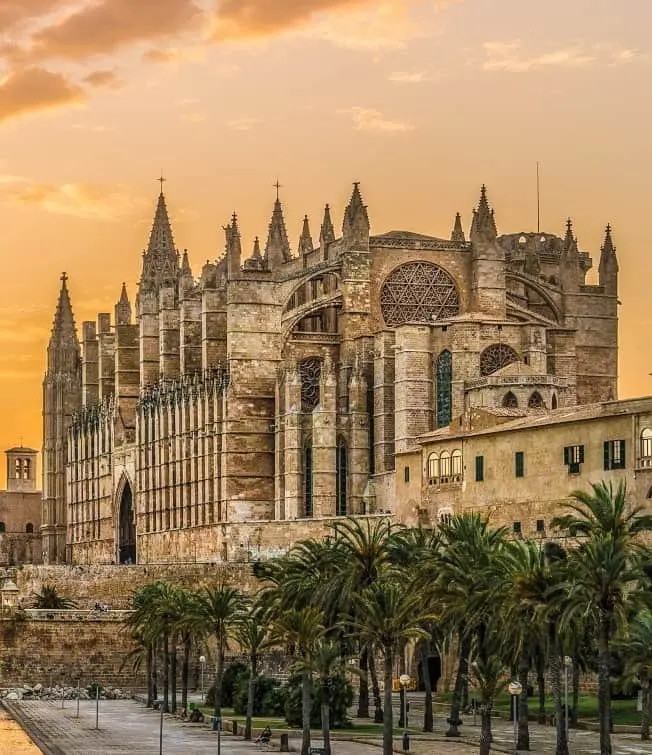
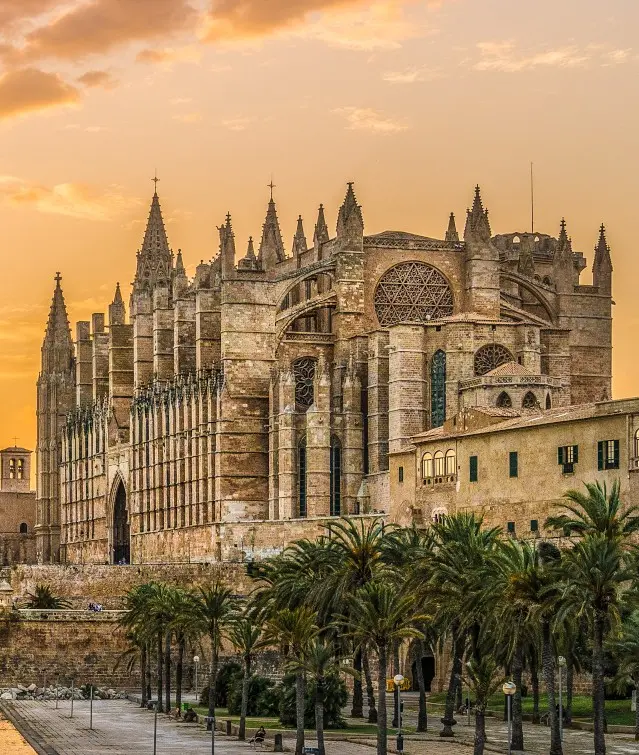
b

diff --git a/place.html b/place.html
@@ -28,33 +28,35 @@
     </header>
 
     <main>
-        <section class="hero">
-            <picture>
-                <source srcset="images/palma-de-mallorca-large.webp" media="(min-width: 300px)">
-                <img src="images/palma-de-mallorca-mobile.webp"
-                    alt="The Cathedral of Palma de Mallorca, known as La Seu, at sunset." width="100%" height="auto">
-            </picture>
+        <picture class="hero-image">
+            <source srcset="images/palma-de-mallorca-mobile.webp" media="(max-width: 750px)">
+            <img src="images/palma-de-mallorca-large.webp"
+                alt="The Cathedral of Palma de Mallorca, known as La Seu, at sunset.">
+        </picture>
 
+        <section>
             <article class="stats-card">
                 <h2>Data</h2>
                 <ul class="fun-facts-list">
-                    <li><span class="label">Area:</span> <span id="area">Valor</span></li>
-                    <li><span class="label">Population:</span> <span id="population">Valor</span></li>
-                    <li><span class="label">Capital:</span> <span id="capital">Valor</span></li>
-                    <li><span class="label">Languages:</span> <span id="languages">Valor</span></li>
-                    <li><span class="label">Currency:</span> <span id="currency">Valor</span></li>
-                    <li><span class="label">Time Zone:</span> <span id="timeZone">Valor</span></li>
-                    <li><span class="label">Calling Code:</span> <span id="callCode">Valor</span></li>
-                    <li><span class="label">Internet TLD:</span> <span id="internetTLD">Valor</span></li>
+                    <li class="label">Area: <span id="area">Valor</span></li>
+                    <li class="label">Population: <span id="population">Valor</span></li>
+                    <li class="label">Capital: <span id="capital">Valor</span></li>
+                    <li class="label">Languages: <span id="languages">Valor</span></li>
+                    <li class="label">Currency: <span id="currency">Valor</span></li>
+                    <li class="label">Time Zone: <span id="timeZone">Valor</span></li>
+                    <li class="label">Calling Code: <span id="callCode">Valor</span></li>
+                    <li class="label">Internet TLD: <span id="internetTLD">Valor</span></li>
                 </ul>
             </article>
 
-            <article class="weather-card">
+            <article class="stats-card">
                 <h2>Weather</h2>
-                <picture class="weather-info">
-                    <source srcset="images/weather-icon.svg" media="(min-width: 300px)">
-                    <img src="images/weather-icon-2.svg" alt="A Weather Icon" class="icon">
-                </picture>
+                <div class="weather-icon">
+                    <picture>
+                        <source srcset="images/weather-icon.svg" media="(min-width: 600px)">
+                        <img src="images/weather-icon-2.svg" alt="A Weather Icon" class="icon">
+                    </picture>
+                </div>
 
 
                 <ul class="fun-facts-list">
@@ -63,7 +65,6 @@
                     <li><span class="label">Wind:</span> <span id="wind"></span></li>
                     <li><span class="label">Wind Chill:</span> <span id="windChill"></span></li>
                 </ul>
-                </div>
             </article>
         </section>
     </main>

diff --git a/styles/place.css b/styles/place.css
@@ -1,16 +1,93 @@
 :root {
     --padding-all-1rem: 1rem;
     --padding-h: 1rem;
-    --margin-nav: 0;
-    --margin-main: 1rem auto 1rem;
     --padding-footer: 2rem 0 2rem;
-    --padding-nav: 1rem 0 1rem;
-    --text-color-h: white;
-    --text-color-nav: white;
-    --text-color-footer: white;
+    --text-color-body: white;
+    --text-header: var(--blue-purpleish);
+    --text-body: var(--blue-purpleish);
+    --text-footer: var(--blue-purpleish);
     /*It is the color palette of The MALLORCA FLAG, since eash island has their own flag even if the are from Spain*/
     --yellow: #FCDD09;
     --red: #DA121A;
     --blue-purpleish: #40104C;
     --white: #ffffff;
+    --shadow: 0 4px 15px rgba(0, 0, 0, 0.1);
+}
+
+* {
+    box-sizing: border-box;
+    margin: 0;
+    padding: 0;
+}
+
+body {
+    font-family: 'Montserrat';
+    color: var(--text-body);
+    text-align: center;
+}
+
+h1,
+h2 {
+    font-family: 'Cormorant Garamond';
+    font-weight: 700;
+}
+
+header {
+    background-color: var(--yellow);
+    color: var(--text-header);
+    padding: 1.5rem;
+    border-bottom: 0.5rem solid var(--red);
+    font-size: larger;
+}
+
+footer {
+    background-color: var(--yellow);
+    color: var(--text-footer);
+    padding: 1.5rem;
+    border-top: 0.5rem solid var(--red);
+}
+
+.hero-img {
+    width: 100%;
+    height: auto;
+}
+
+.label {
+    font-weight: bold;
+}
+
+.label span {
+    font-weight: normal;
+}
+
+/*aqui checar*/
+
+.stats-card,
+.weather-card {
+    background-color: var(--card-bg);
+    margin: 1.5rem;
+    padding: 1rem;
+    box-shadow: var(--shadow);
+    border-radius: 5px;
+}
+
+.stats-card h2 {
+    color: white;
+    background-color: var(--blue-purpleish);
+    padding: 0.5rem;
+    margin-bottom: 1rem;
+}
+
+.fun-facts-list {
+    list-style: none;
+    text-align: left;
+    display: inline-block;
+    width: 100%;
+}
+
+.fun-facts-list li {
+    padding: 0.4rem 0;
+    border-bottom: 1px solid #eee;
+    display: flex;
+    justify-content: space-between;
 }

diff --git a/styles/place-large.css b/styles/place-large.css
@@ -1,0 +1,43 @@
+@media (min-width: 750px) {
+    .hero {
+        position: relative;
+        display: block;
+    }
+
+    .stats-card {
+        position: absolute;
+        top: 50px;
+        left: 50px;
+        width: 300px;
+        margin: 0;
+    }
+
+    .weather-card {
+        position: absolute;
+        bottom: 50px;
+        right: 50px;
+        width: 280px;
+        margin: 0;
+    }
+
+
+    .weather-info picture {
+        display: none;
+    }
+
+    .weather-card h2::after {
+        content: "";
+        display: inline-block;
+        width: 30px;
+        height: 30px;
+        background-image: url('../images/weather-icon.svg');
+        background-size: contain;
+        background-repeat: no-repeat;
+        vertical-align: middle;
+        margin-left: 15px;
+    }
+
+    header {
+        font-size: 1.5rem;
+    }
+}
